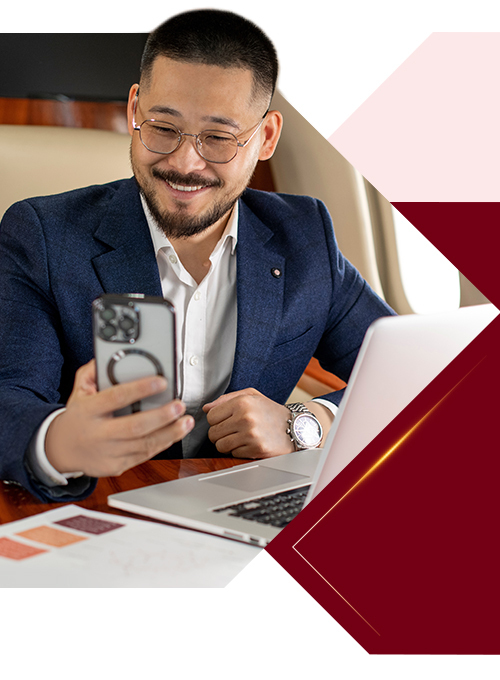
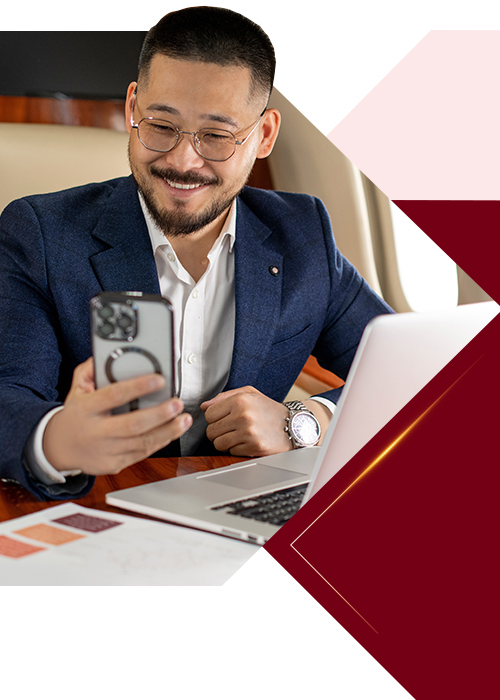
fix

diff --git a/source/index_vn.html b/source/index_vn.html
@@ -250,7 +250,7 @@
 				<tr>
 					<td align="left" style="padding: 0; margin: 0; border: none; line-height: 1.3; font-size: 16px; font-family: Arial, Helvetica, sans-serif !important;"><table width="100%" border="0" cellpadding="0" cellspacing="0" class="chs_body">
 						<tr>
-							<td width="250" align="left" valign="top" style="padding: 0; margin: 0; border: none; line-height: 1.3; font-size: 16px; font-family: Arial, Helvetica, sans-serif !important;"><img src="image/chs_box_8_en.jpg" width="250" height="auto" alt="" style="display: block" /></td>
+							<td width="250" align="left" valign="top" style="padding: 0; margin: 0; border: none; line-height: 1.3; font-size: 16px; font-family: Arial, Helvetica, sans-serif !important;"><img src="image/chs_box_8.jpg" width="250" height="auto" alt="" style="display: block" /></td>
 							<td valign="top" align="left" bgcolor="#730014" style="padding: 0; margin: 0; border: none; line-height: 1.3; font-size: 16px; font-family: Arial, Helvetica, sans-serif !important;"><table width="100%" border="0" cellpadding="0" cellspacing="0" class="chs_body">
 								<tr>
 									<td bgcolor="#fce8e8" valign="middle" align="left" style="padding: 0; margin: 0; border: none; line-height: 1.3; font-size: 16px; font-family: Arial, Helvetica, sans-serif !important;"><table width="100%" border="0" cellpadding="0" cellspacing="0" class="chs_body">
